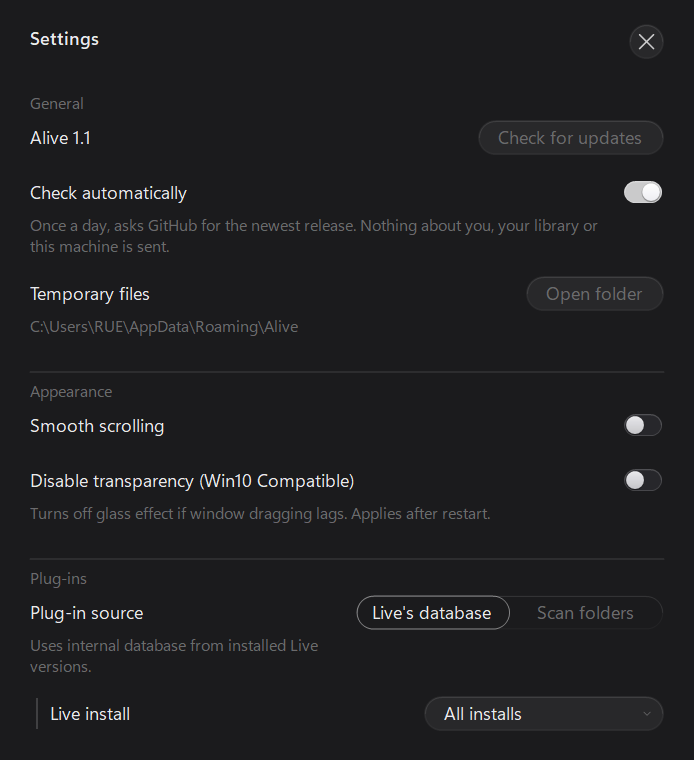
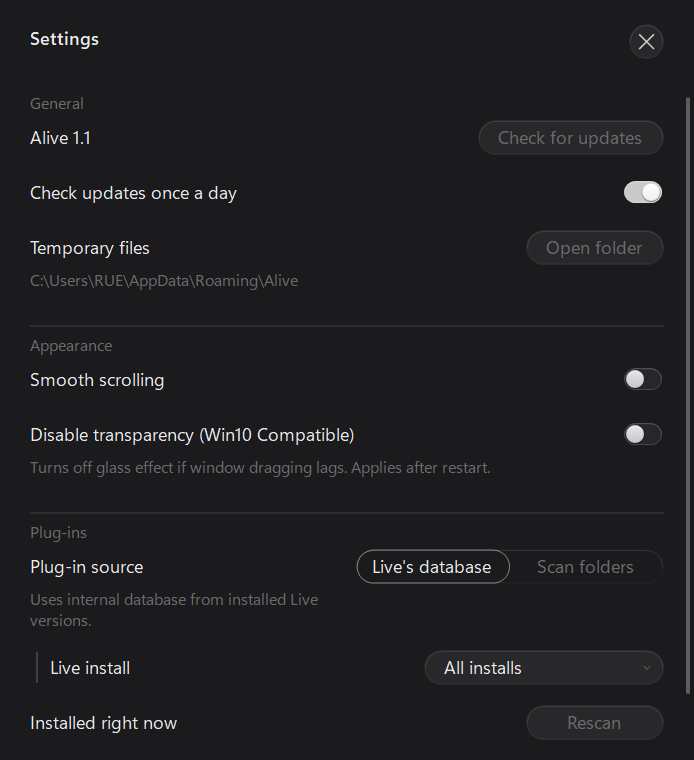
Ответ проверки встал в строку с версией
Текст ответа рисовался в левом верхнем углу панели, поверх заголовка раздела.
Причина не в координатах: OnUpdateButton звал Invalidate вместо Relayout, строки
не пересобирались, и прямоугольник под ответ так и оставался Rectangle.Empty -
то есть (0,0). Пустой прямоугольник с NoClipping рисует не нигде, а в начале
координат, и это худший из возможных способов промолчать.

Ответ переехал в строку с версией и прижат вправо, к кнопке, которая его и
вызвала: "Alive 1.1 ... You have the latest version [Check for updates]". Заодно
исчезла причина ошибки - прямоугольник теперь часть строки и вычисляется всегда,
а не появляется вместе с текстом. И окно больше не становится выше ради фразы
"у вас самая свежая версия", что для такой новости было слишком.

Переключатель назван по делу: "Check updates once a day" вместо "Check
automatically" с подписью в две строки под ней. Подписи нет - про то, что именно
уходит с запросом и чего не уходит, написано в README, и это более подходящее
для такого место, чем строка в диалоге.

Скриншот настроек перезаснят.

diff --git a/src/SettingsDialog.cs b/src/SettingsDialog.cs
@@ -443,17 +443,13 @@ namespace AbletonManager
             Section(x, ref y, w, "General");
 
             Line(x, ref y, w, h, _update, "Alive " + Application.ProductVersion, "");
-            _updateRect = Rectangle.Empty;
-            if (_updateNote.Length > 0)
-            {
-                _updateRect = new Rectangle(x, y - Sc(8), w - _update.Width - Sc(16), Sc(24));
-                y += Sc(22);
-            }
+            // The answer shares the row with the version and is pushed against the button that
+            // produced it. Under the row it would have to be given room the moment it appears,
+            // and a window that grows taller to say "you have the latest version" asks for more
+            // attention than the news deserves.
+            _updateRect = _rows[_rows.Count - 1].Rect;
 
-            Line(x, ref y, w, h, _autoUpdate,
-                 "Check automatically",
-                 "Once a day, asks GitHub for the newest release. Nothing about you, your "
-                 + "library or this machine is sent.");
+            Line(x, ref y, w, h, _autoUpdate, "Check updates once a day", "");
 
             Line(x, ref y, w, h, _openCache,
                  "Temporary files",
@@ -611,6 +607,9 @@ namespace AbletonManager
         /// edge.</summary>
         internal void PaintRows(Graphics g)
         {
+            const TextFormatFlags rightFlags = TextFormatFlags.Right | TextFormatFlags.VerticalCenter |
+                                               TextFormatFlags.SingleLine | TextFormatFlags.NoPrefix |
+                                               TextFormatFlags.EndEllipsis;
             const TextFormatFlags leftFlags = TextFormatFlags.Left | TextFormatFlags.VerticalCenter |
                                               TextFormatFlags.SingleLine | TextFormatFlags.NoPrefix |
                                               TextFormatFlags.NoPadding | TextFormatFlags.NoClipping;
@@ -645,7 +644,7 @@ namespace AbletonManager
             }
 
             Chrome.DrawText(g, _inventory, Theme.FSmall, _statusRect, Theme.TextDim, leftFlags);
-            Chrome.DrawText(g, _updateNote, Theme.FSmall, _updateRect, Theme.TextDim, leftFlags);
+            Chrome.DrawText(g, _updateNote, Theme.FSmall, _updateRect, Theme.TextDim, rightFlags);
         }
 
         /// <summary>The wheel over the heading or the close button scrolls too.</summary>
